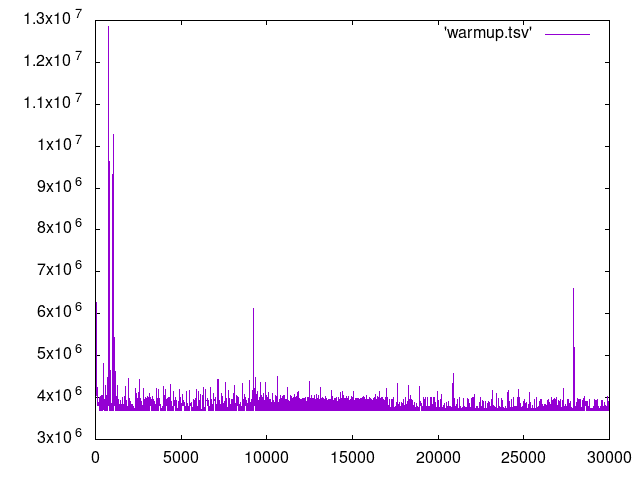
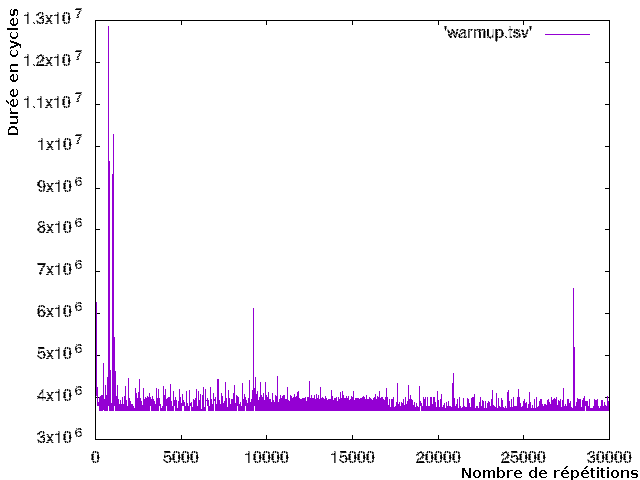
THE DANK RAPPORT UPDATE [2]
-Ajout du nom des Axes sur les graphes de Warmup
-Restructuration finie

TODO:partie mesure répétitions, méta-répétitions, suite partie 2 (La partie n'étant pas prise en compte pour cte note pas besoin de la réécrire)

diff --git a/LaTeX/rapport.tex b/LaTeX/rapport.tex
@@ -106,7 +106,9 @@ On détermine ensuite le nombre de répétitons nécéssaires par méthode graph
 
 Pour vérifier nos résultats, les tests ont également été effectués pour 200 000 tours.
 On sépare les cas pour les différentes tailles de données:
+
 \newpage
+\subsection*{Warmup en Cache L1}
     \begin{figure}[ht!]
         \centering
         \includegraphics[width=120mm]{MEDIA/warmupL1_Cstate.png}
@@ -129,6 +131,8 @@ Il nous faut donc 2000 cycles de warmup pour une taille de données rentrant en 
 
 Pour la suite, nous continuons à faire nos calculs avec Cstate max=0
 \newpage
+
+\subsection*{Warmup en Cache L2}
     \begin{figure}[ht!]
         \centering
         \includegraphics[width=120mm]{MEDIA/warmupL2_NOCstate.png}
@@ -146,7 +150,8 @@ On constate que les temps de calculs deviennent rapidement stables.
 
     On décide de prendre 500 cycles de warmup pour avoir une marge.
 
-\newpage 
+\newpage
+\subsection*{Warmup en Cache L3}
     \begin{figure}[ht!]
         \centering
         \includegraphics[width=120mm]{MEDIA/warmupL3_NOCstate.png}
@@ -174,18 +179,20 @@ On décide donc de tester pour 200 000 éxécutions.
 
     On constate que pour les ~30K premières éxécutions, le temps de calcul est le même que pour chacune des 10 000. Il descend ensuite à la valeur obtenue pour chaque boucle des 100 000 tours de warmup.Nous avons donc decidé de prendre 50K tours de warmup, ce qui nous donne un résultat similaire au 100K d'après nos tests.
    \newpage
+
+\subsection*{Warmup en RAM}
    \begin{figure}[ht!]
         \centering
         \includegraphics[width=120mm]{MEDIA/warmupRAM.png}
         \caption{Warmup en RAM }
     \end{figure}
 En RAM, le temps d'éxécution est très inconsistant, en regardant le graphique de plus près, on constate qu'il n'y a quasiment pas besoin de warmup. C'est pour cela que l'on décide de prendre que 200 tours.
-\newpage
-\subsection*{Flags d'optimisation}
+
+\chapter*{Flags d'optimisation}
 
 On a éssayé différents flags de compilation suivant le processeur.
 
-Pour gcc:
+\section*{Pour gcc}
 \begin{itemize}
     \item{-Og: n'active que les optimisations triviales. Nous avons choisi de tester ce flag uniqument pour voir si les optimisations avait un quelconque effet}
     \item{-O3: référence, nous avons pu voir avec maqao que la puissance processeur reste mal exploité notament à cause du manque de vectorisation, option pourtant activé.}
@@ -196,13 +203,19 @@ Pour gcc:
     \item{-fsection-anchors: Optimisation agressive sur les accés mémoire pour diminuer le calcul d'adresse-non disponble sur l'architecture cible}
 \end{itemize}
 
-Pour icc:
+
+\section*{Pour icc}
 \begin{itemize}
     \item{-O3 niveau d'optimisation équivalent à celui de gcc}
     \item{-fast : optimistation ultra agressive, qui donne un code très rapide, mais il nous était impossible de l'anaylser avec maqao. Quelques doutes subsistaient sur sa consistance, avant l'examen du listing assembleur}
     \item {-Ofast: similaire à gcc}
 \end{itemize}
 
+
+
+\section*{Comparaisons}
+
+\subsection*{Temps en L1}
 \newpage
    \begin{figure}[ht!]
         \centering
@@ -210,20 +223,23 @@ Pour icc:
         \caption{Temps selon les flags utilisés en L1}
     \end{figure}
 On remarque que icc avec le flag fast, génère un code bien plus rapide que gcc.
-Cela vient du fait que bien qu'elle soit activée, gcc ne vectorise pas le code.
+Cela vient du fait que bien qu'elle soit activée, gcc ne vectorise pas le code.\\
 
 Comme dit plus haut nous n'avons pas pu faire l'analyse du binaire généré avec icc -fast avec maqao. En effet les résultats de maqao fournis n'étaitent pas cohérents 
-( nombre de boucles différent entre 2 expériences sur un binaire identitique, instructions non reconnues, etc ). Nous avons donc décidé d'eximiner le listing assembleur produit pour le kernel,
+( nombre de boucles différent entre 2 expériences sur un binaire identitique, instructions non reconnues, etc ). Nous avons donc décidé d'eximiner le listing assembleur produit pour le kernel,\\
  avec icc sans flag ( autre que -S pour obtenir le listing ) et icc -fast. La première différence est la zone des ".byte" ne connaissant pas assez bien l'assembleur nous ne savons pas à quoi cette zone servait.
 La deuxième est qu'une bonne partie des instructions scalaires ont été remplacées par des instructions vectorielles AVX
 ( movss -> vmovss, divss -> vdivss ). On peut aussi observer que la double boucle a été deroulée, ce qui est déjà le cas sans flag. Nous avons aussi regardé le listing généré pour gcc en O3 ce qui nous a bien confirmé qu'aucune vectorisation n'a été appliquée. 
 \newpage
+
+\subsection*{Temps en L2}
    \begin{figure}[ht!]
         \centering
         \includegraphics[width=120mm]{MEDIA/Resultat_TEST_L2.png}
         \caption{Temps selon les flags utilisés en L2}
     \end{figure}
 
+\subsection*{Temps en L3}
    \begin{figure}[ht!]
         \centering
         \includegraphics[width=120mm]{MEDIA/Resultat_TEST_L3.png}

diff --git a/LaTeX/Part2.tex b/LaTeX/Part2.tex
@@ -1,14 +1,7 @@
-\documentclass{report}
-\usepackage[utf8]{inputenc}
-\usepackage[francais]{babel}  
-\usepackage[T1]{fontenc} 
-\usepackage{graphicx}
-\usepackage{listings}
-\renewcommand{\thesection}{\arabic{section}}
 \begin{document}
 
-\section*{Optimisation du Code}
-\subsection*{La division}
+\chapter*{L'Optimisation du Code}
+\section*{La division}
 
 L'opération la plus lognue dans notre kernel est la division. A chaque exécution du kernel, celle-ci est éxécutée $n^2$ fois.
 
@@ -25,10 +18,7 @@ On compare $3n^2$ et $3n+n^2$:\\
 Inverser les boucles est donc beaucoup plus rentable.
 Speedup offert par cette optimisation:<A Calculer>
 
-
-
-
-\subsection*{L'accés Indirect}
+\section*{L'accès Indirect}
 
 Une opération qui fait également perdre du temps au kernel est l'accés indirect sur le tableau a.
 Nous proposons d'ajouter une boucle au début du noyeau qui calculera les accés indrects avant que ceux-ci soient utilisés dans la bocule de calcul.
